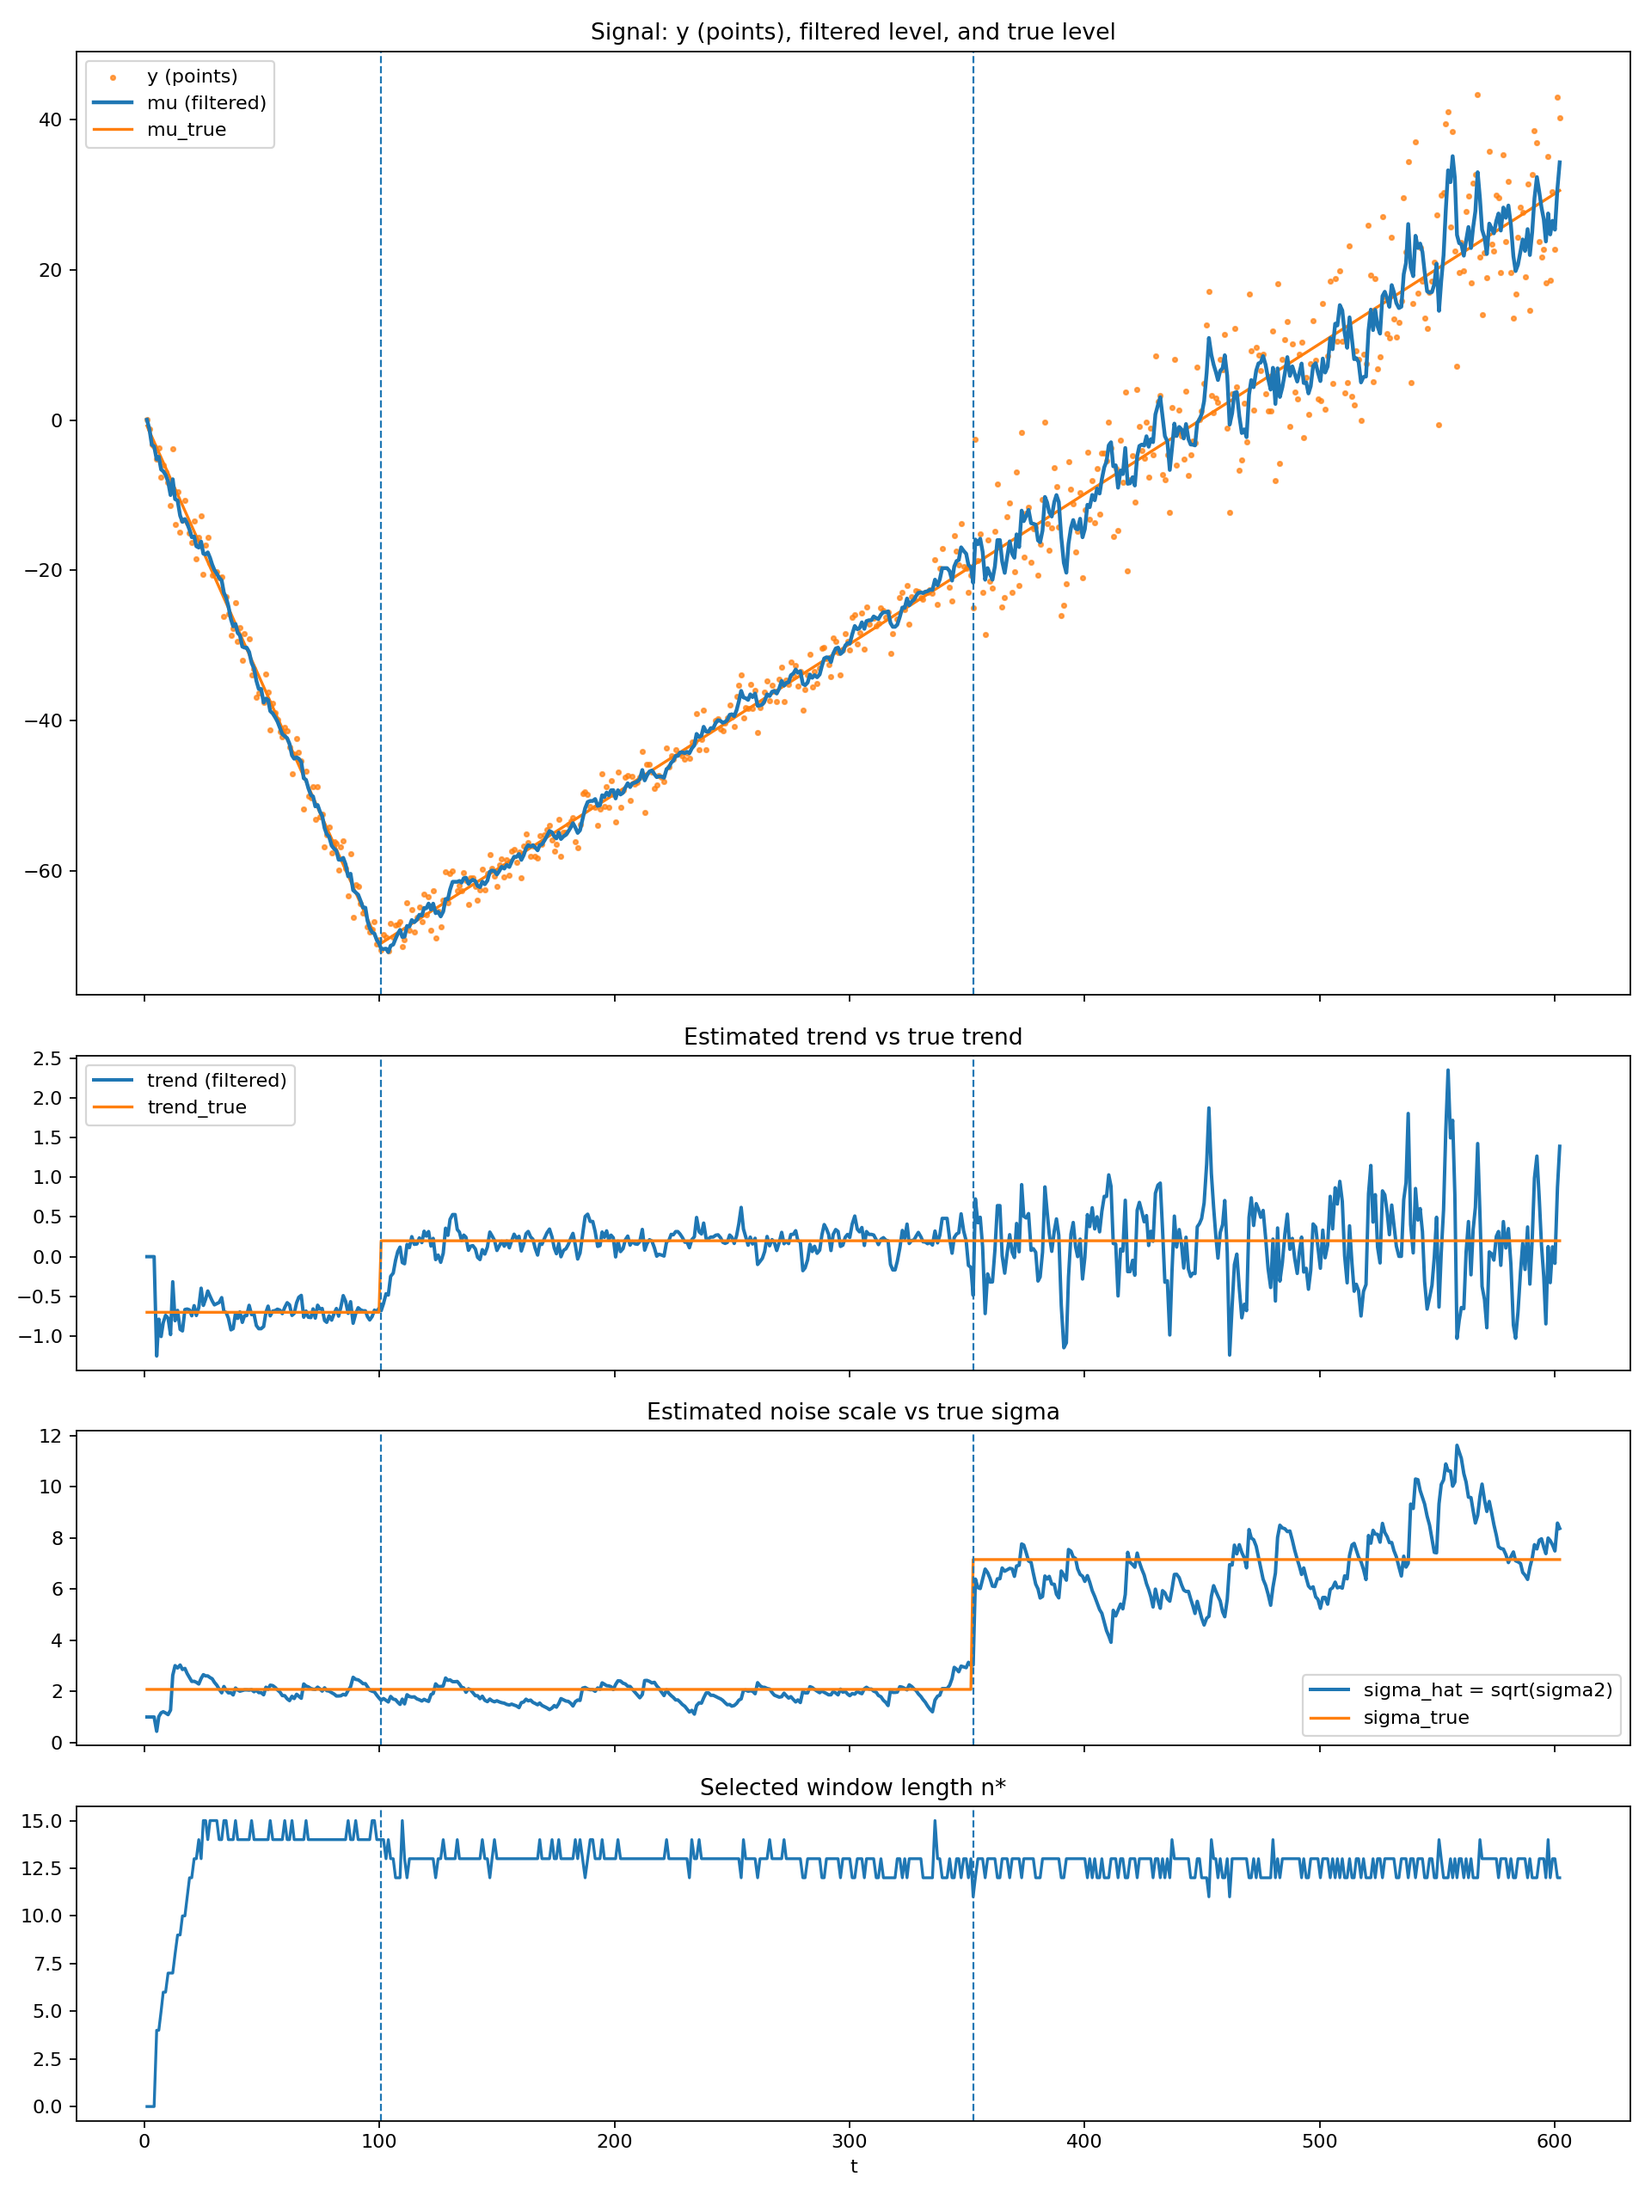
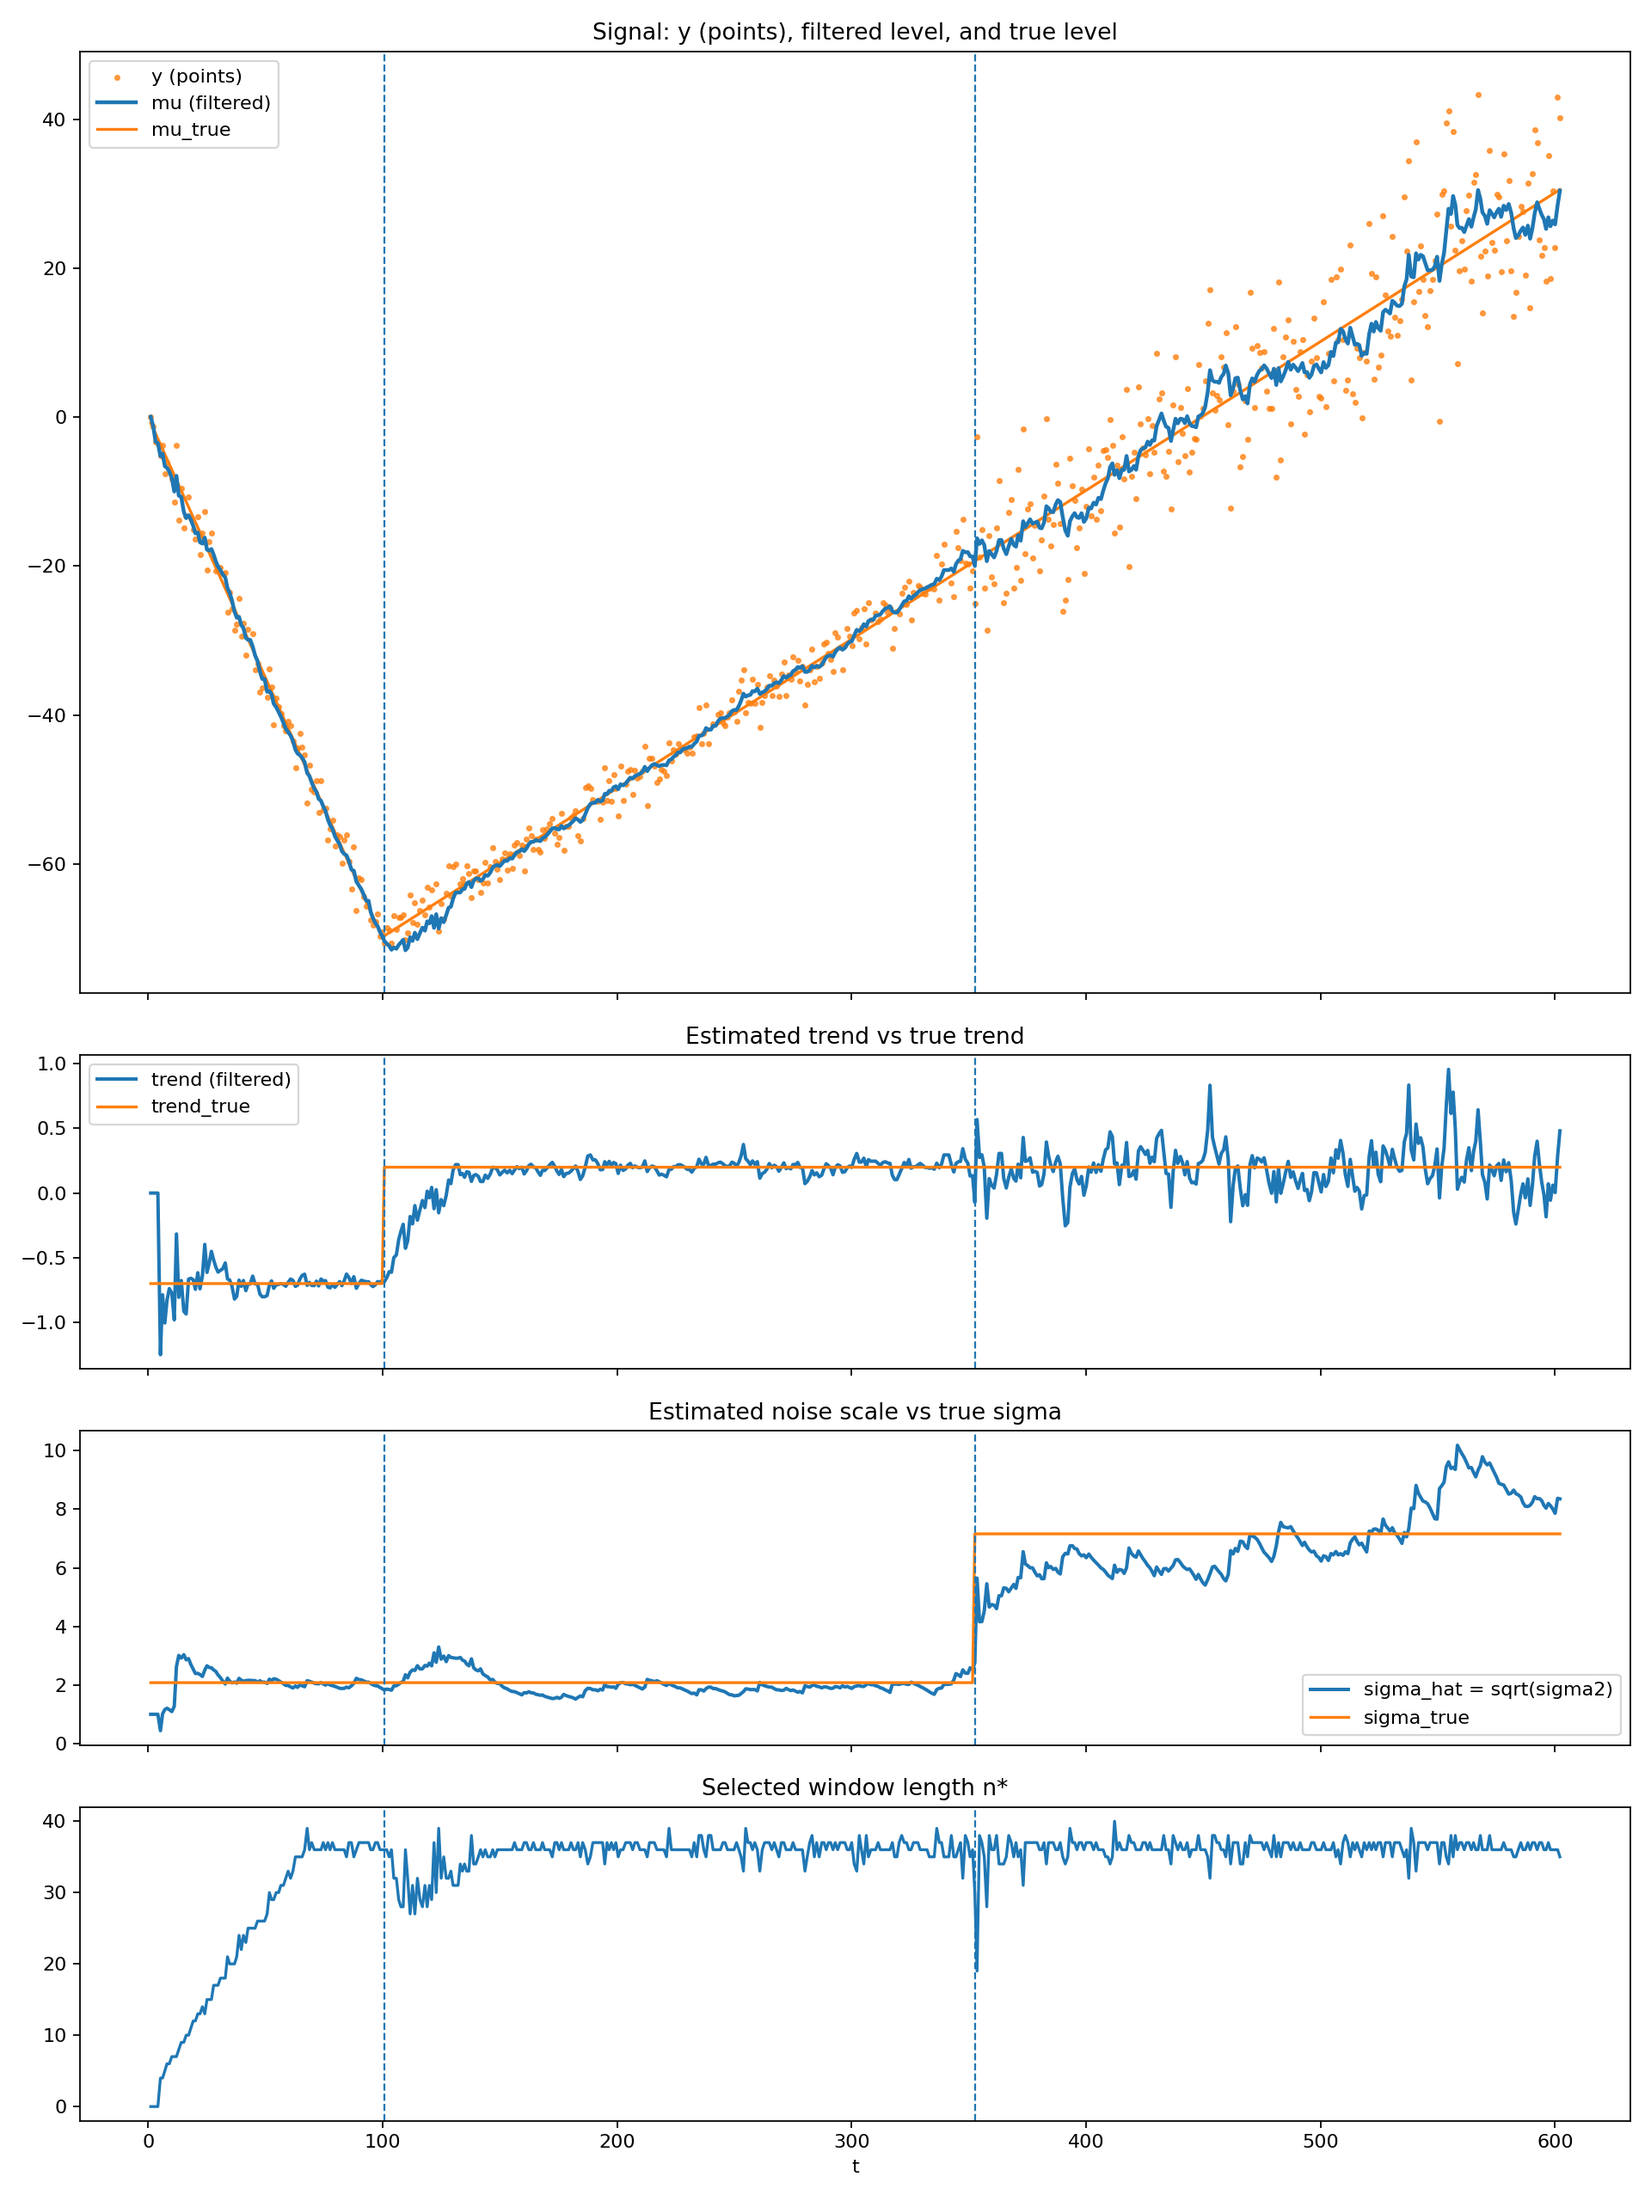
work fine

diff --git a/tests/test_soft_core_equivalence.py b/tests/test_soft_core_equivalence.py
@@ -1,0 +1,95 @@
+import math
+import random
+
+import pytest
+
+from owrf1d import OnlineWindowRegressor1D
+from owrf1d.filter import HAVE_CYTHON_CORE
+
+
+def _gen_piecewise_linear_sigma(
+    n: int,
+    *,
+    t0: int,
+    a0: float,
+    b1: float,
+    b2: float,
+    s1: float,
+    s2: float,
+    seed: int = 0,
+):
+    rng = random.Random(seed)
+    out = []
+    for i in range(n):
+        t = float(i)
+        b = b1 if i < t0 else b2
+        sigma = s1 if i < t0 else s2
+        y = a0 + b * t + rng.gauss(0.0, sigma)
+        out.append((t, y))
+    return out
+
+
+@pytest.mark.skipif(not HAVE_CYTHON_CORE, reason="Cython core not built")
+def test_cython_soft_matches_python_reference_constants():
+    W = 64
+    seq = _gen_piecewise_linear_sigma(
+        320,
+        t0=160,
+        a0=0.0,
+        b1=0.05,
+        b2=0.25,
+        s1=0.06,
+        s2=0.12,
+        seed=7,
+    )
+
+    f_py = OnlineWindowRegressor1D(max_window=W, min_window=4, history=0, selection="soft")
+    f_cy = OnlineWindowRegressor1D(max_window=W, min_window=4, history=0, selection="soft")
+
+    # Force modes
+    f_py._use_core = False
+    f_cy._use_core = True
+
+    atol = 1e-8
+    float_keys = (
+        "pred_mu",
+        "pred_s2",
+        "score_star",
+        "score_second",
+        "delta_score",
+        "mu",
+        "trend",
+        "sigma2",
+        "n_eff",
+        "w_star",
+        "entropy",
+        "entropy_norm",
+        "tau",
+        "sigma2_total",
+        "d_used",
+    )
+    int_keys = (
+        "n_star",
+        "nu",
+        "flags",
+        "cap",
+        "cap_before",
+        "cap_target",
+        "n_star_hard",
+    )
+
+    for t, y in seq:
+        out_py = f_py.update(y, t=t)
+        out_cy = f_cy.update(y, t=t)
+
+        for k in int_keys:
+            assert out_py[k] == out_cy[k]
+
+        for k in float_keys:
+            assert math.isfinite(out_py[k])
+            assert math.isfinite(out_cy[k])
+            assert abs(out_py[k] - out_cy[k]) <= atol
+
+        # core flag is expected to differ (py forced, cy forced)
+        assert out_py["core"] is False
+        assert out_cy["core"] is True

diff --git a/src/owrf1d/filter.py b/src/owrf1d/filter.py
@@ -592,6 +592,13 @@ class OnlineWindowRegressor1D:
                             int(self._soft_cap),
                             int(self.max_window),
                             int(self.min_window),
+
+                            float(_TAU_MIN),
+                            float(_TAU_MAX),
+                            float(_TAU_BOOT),
+                            float(_CAP_R_MIN),
+                            float(_CAP_R_MAX),
+                            float(_CAP_BETA),
                         )
                         flags |= int(f_add)
                         self._soft_cap = int(cap_new)
